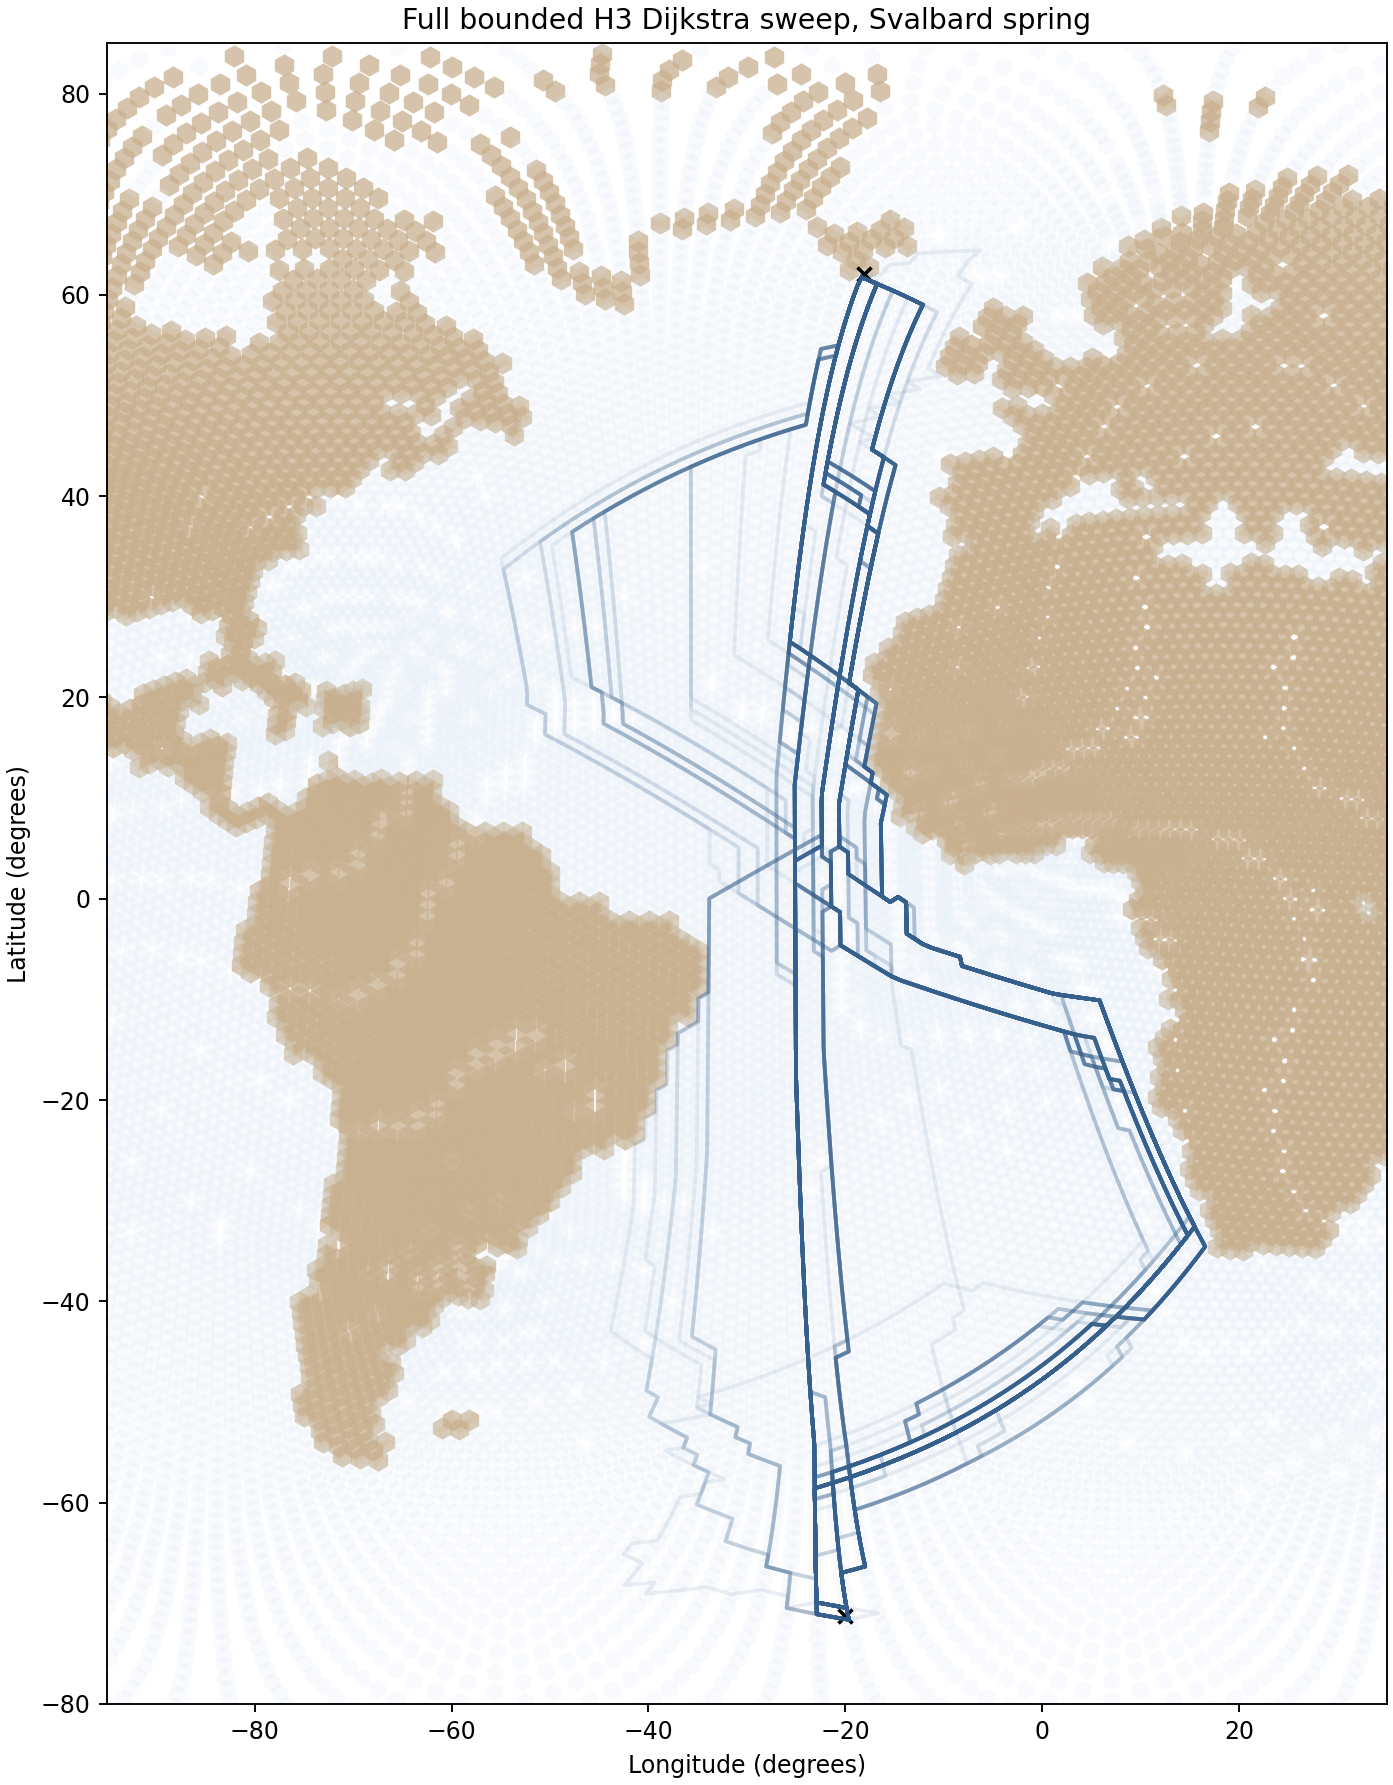
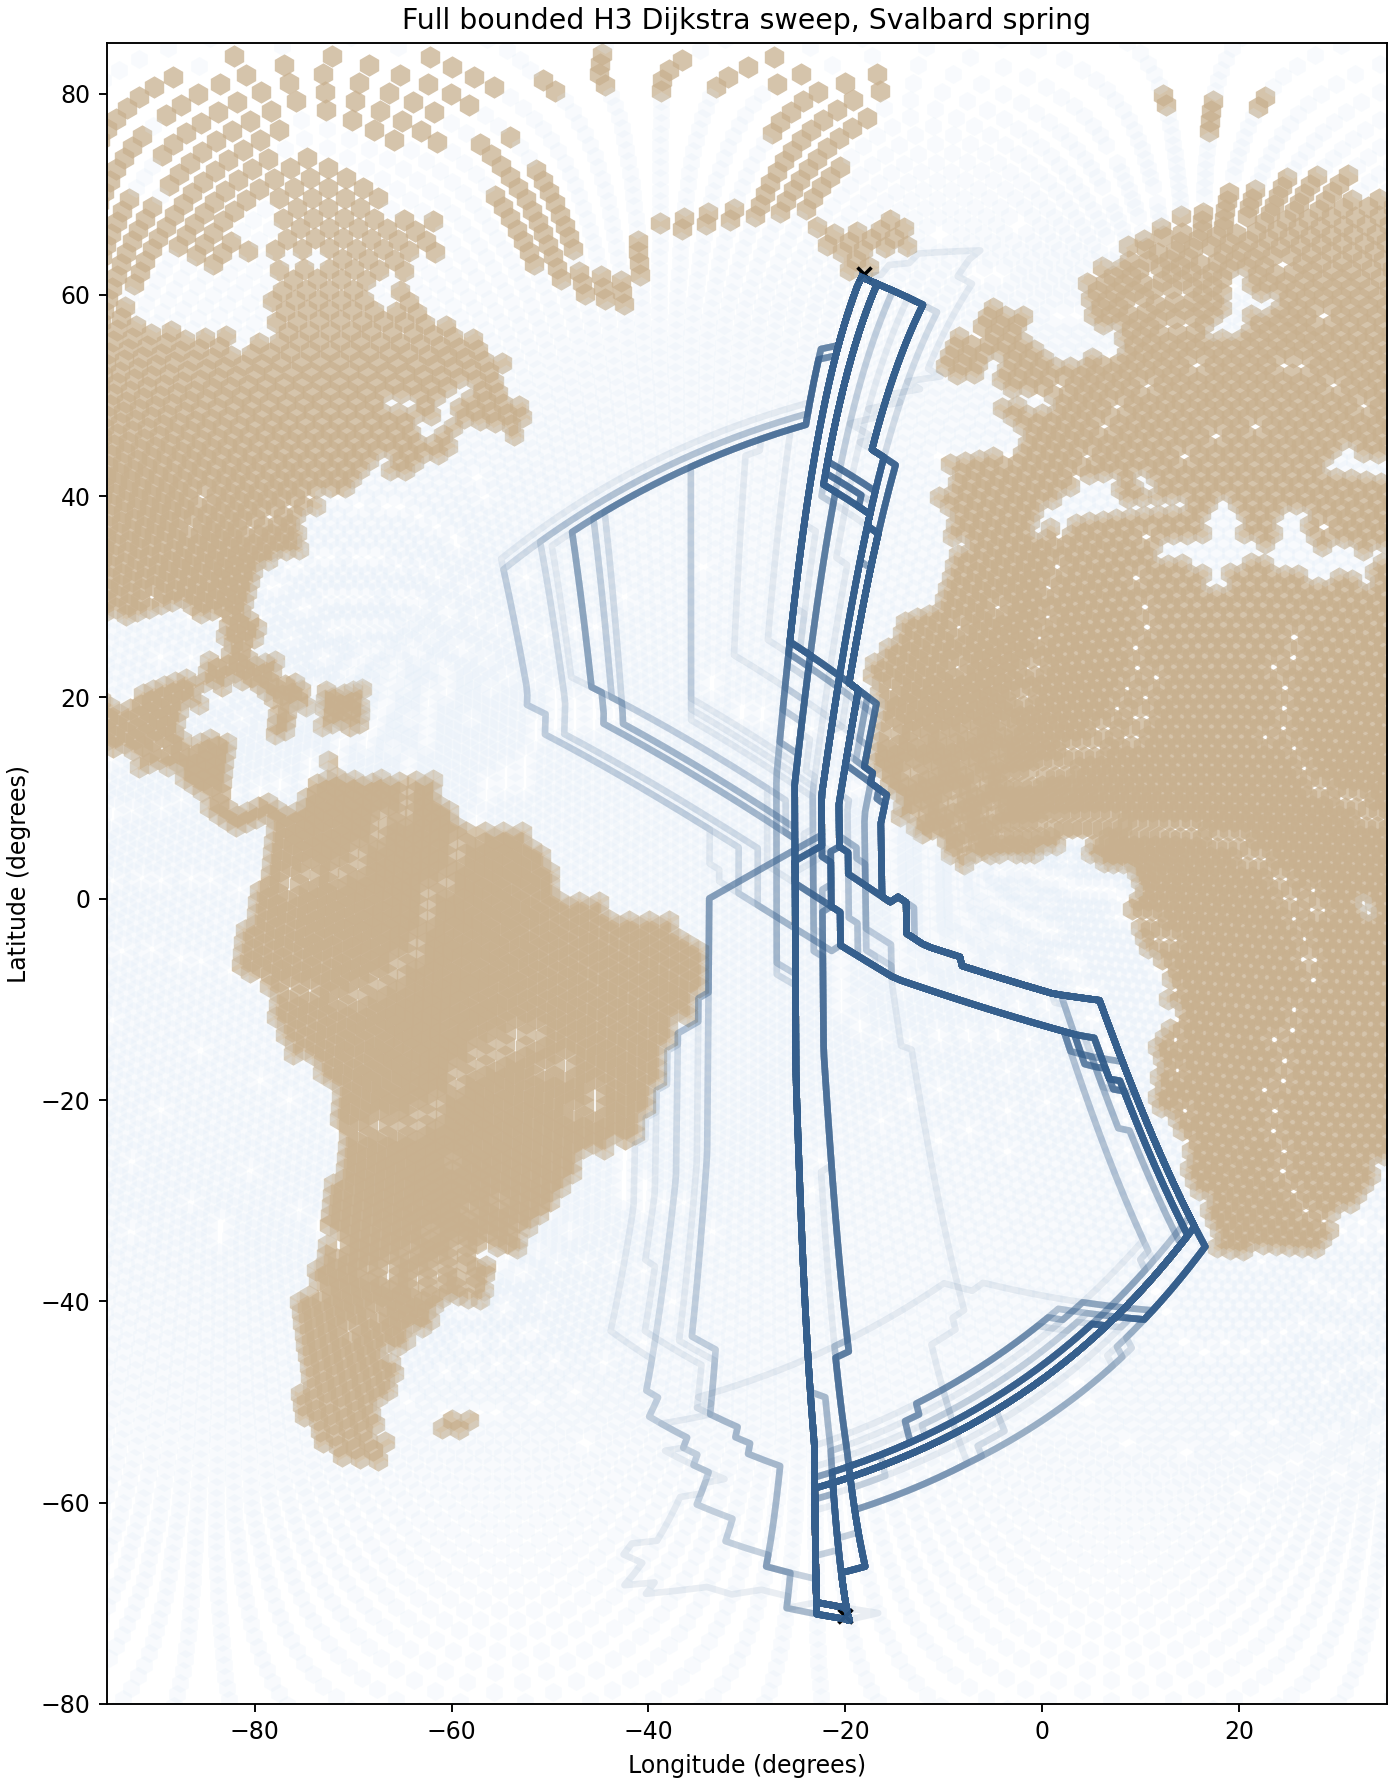
Tighten full sweep report figures

diff --git a/src/scripts/15_report_full_bounded_h3_dijkstra.py b/src/scripts/15_report_full_bounded_h3_dijkstra.py
@@ -48,7 +48,7 @@ def main() -> None:
     for _, route in path_df.groupby("behavior"):
         lons = [route.iloc[0]["source_lon"]] + route["target_lon"].tolist()
         lats = [route.iloc[0]["source_lat"]] + route["target_lat"].tolist()
-        ax.plot(lons, lats, color="#355f8d", linewidth=1.6, alpha=0.10)
+        ax.plot(lons, lats, color="#355f8d", linewidth=2.8, alpha=0.10)
     ax.scatter([start_record["lon"], end_record["lon"]], [start_record["lat"], end_record["lat"]], color="black", s=35, marker="x")
     ax.set_title("Full bounded H3 Dijkstra sweep, Svalbard spring")
     ax.set_xlabel("Longitude (degrees)")
@@ -56,22 +56,6 @@ def main() -> None:
     ax.set_xlim(-95, 35)
     ax.set_ylim(-80, 85)
     fig.savefig(FIGURE_PATH, dpi=170)
-    plt.close(fig)
-
-    fig, ax = plt.subplots(figsize=(8.2, 10.5), constrained_layout=True)
-    ax.scatter(masked["lon"], masked["lat"], s=90, marker="h", color="#c8b08f", alpha=0.75, linewidths=0)
-    ax.scatter(supported["lon"], supported["lat"], s=65, marker="h", color="#dceaf7", alpha=0.12, linewidths=0)
-    for _, route in path_df.groupby("behavior"):
-        lons = [route.iloc[0]["source_lon"]] + route["target_lon"].tolist()
-        lats = [route.iloc[0]["source_lat"]] + route["target_lat"].tolist()
-        ax.plot(lons, lats, color="black", linewidth=2.2, alpha=0.025)
-    ax.scatter([start_record["lon"], end_record["lon"]], [start_record["lat"], end_record["lat"]], color="crimson", s=35, marker="x")
-    ax.set_title("Full bounded H3 Dijkstra sweep, transparent overview")
-    ax.set_xlabel("Longitude (degrees)")
-    ax.set_ylabel("Latitude (degrees)")
-    ax.set_xlim(-95, 35)
-    ax.set_ylim(-80, 85)
-    fig.savefig(FIGURE_DENSITY_PATH, dpi=170)
     plt.close(fig)
 
     point_df = path_df[["source_lon", "source_lat"]].rename(columns={"source_lon": "lon", "source_lat": "lat"}).copy()
@@ -125,14 +109,11 @@ See:
 - weight table: `results/tables/15_svalbard_full_bounded_dijkstra_weight_sets.csv`
 - endpoint table: `results/tables/15_svalbard_full_bounded_dijkstra_endpoints.csv`
 - route overview figure: `results/figures/15_svalbard_full_bounded_dijkstra_routes.png`
-- transparent route overview figure: `results/figures/15_svalbard_full_bounded_dijkstra_routes_transparent.png`
 - route-point density heatmap: `results/figures/15_svalbard_full_bounded_dijkstra_point_density_heatmap.png`
 
 ## Quick-look figures
 
 ![Full bounded H3 Dijkstra sweep](../figures/15_svalbard_full_bounded_dijkstra_routes.png)
-
-![Full bounded H3 Dijkstra sweep, transparent overview](../figures/15_svalbard_full_bounded_dijkstra_routes_transparent.png)
 
 ![Full bounded H3 Dijkstra sweep, Atlantic point-density heatmap](../figures/15_svalbard_full_bounded_dijkstra_point_density_heatmap.png)
 

diff --git a/results/reports/15_run-full-bounded-h3-dijkstra.md b/results/reports/15_run-full-bounded-h3-dijkstra.md
@@ -28,14 +28,11 @@ See:
 - weight table: `results/tables/15_svalbard_full_bounded_dijkstra_weight_sets.csv`
 - endpoint table: `results/tables/15_svalbard_full_bounded_dijkstra_endpoints.csv`
 - route overview figure: `results/figures/15_svalbard_full_bounded_dijkstra_routes.png`
-- transparent route overview figure: `results/figures/15_svalbard_full_bounded_dijkstra_routes_transparent.png`
 - route-point density heatmap: `results/figures/15_svalbard_full_bounded_dijkstra_point_density_heatmap.png`
 
 ## Quick-look figures
 
 ![Full bounded H3 Dijkstra sweep](../figures/15_svalbard_full_bounded_dijkstra_routes.png)
-
-![Full bounded H3 Dijkstra sweep, transparent overview](../figures/15_svalbard_full_bounded_dijkstra_routes_transparent.png)
 
 ![Full bounded H3 Dijkstra sweep, Atlantic point-density heatmap](../figures/15_svalbard_full_bounded_dijkstra_point_density_heatmap.png)
 
